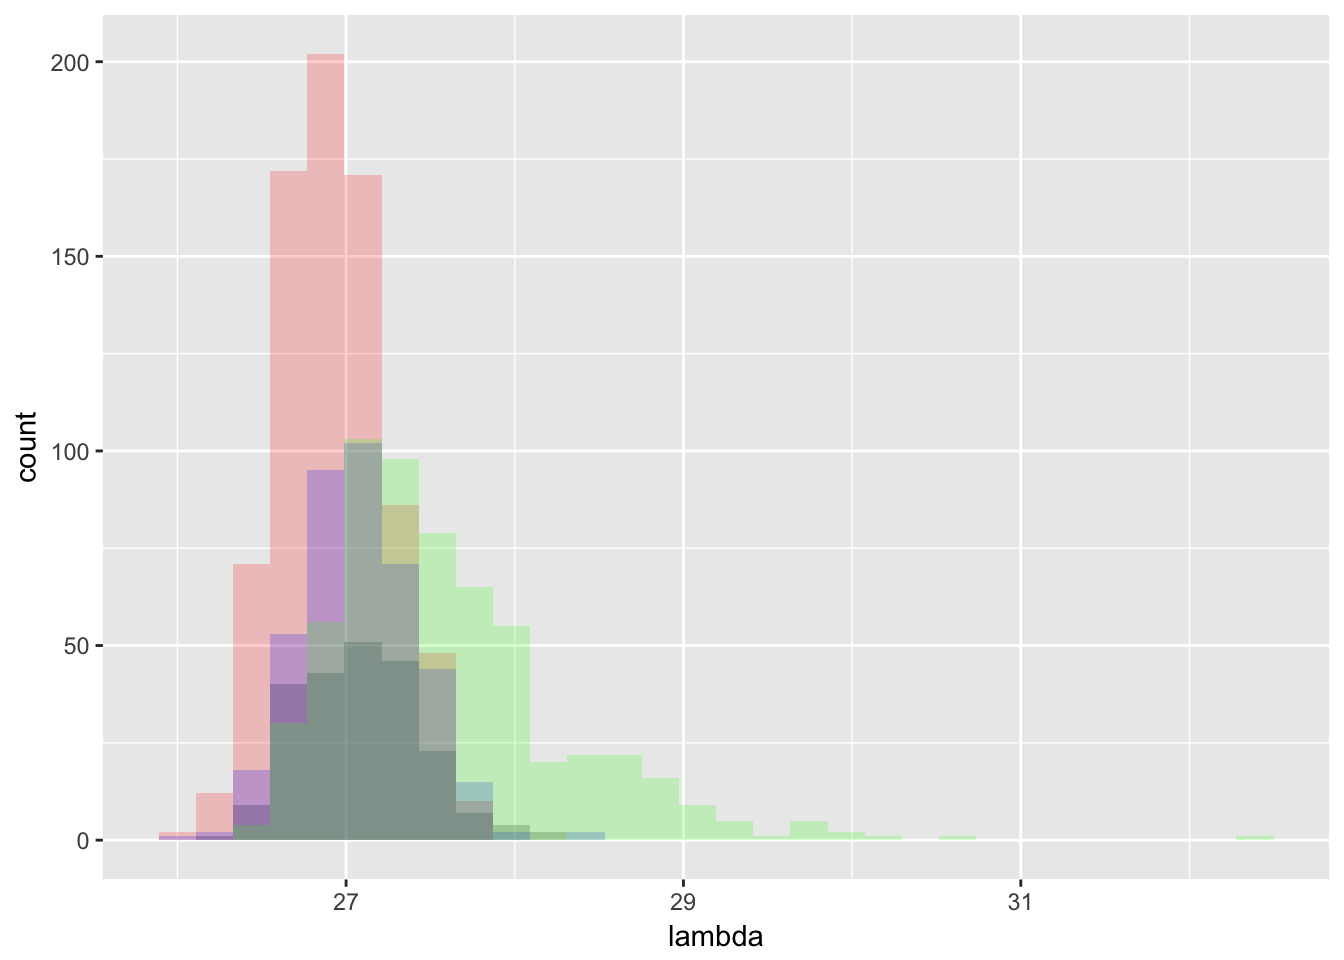
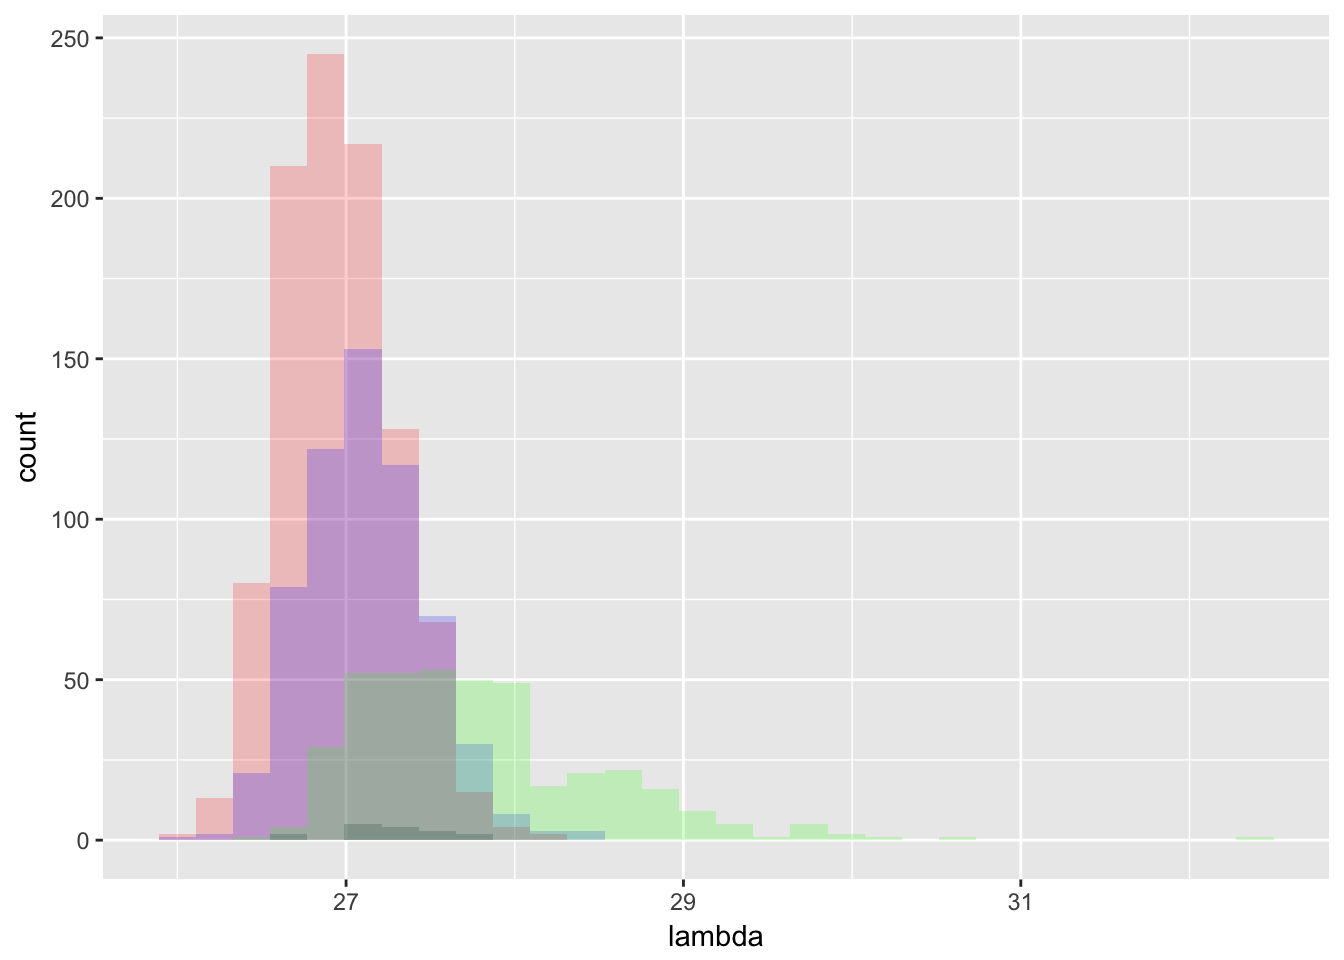
Build site.

diff --git a/docs/nullcheck2.html b/docs/nullcheck2.html
@@ -9,10 +9,10 @@
 <meta name="generator" content="pandoc" />
 
 
-<meta name="author" content="wei" />
+<meta name="author" content="Wei Wang" />
 
 
-<title>null check for flashr2</title>
+<title>NUll check for flashr2</title>
 
 <script src="site_libs/jquery-1.11.3/jquery.min.js"></script>
 <meta name="viewport" content="width=device-width, initial-scale=1" />
@@ -301,9 +301,9 @@ div.tocify {
 
 
 
-<h1 class="title toc-ignore">null check for flashr2</h1>
-<h4 class="author"><em>wei</em></h4>
-<h4 class="date"><em>09-16</em></h4>
+<h1 class="title toc-ignore">NUll check for flashr2</h1>
+<h4 class="author"><em>Wei Wang</em></h4>
+<h4 class="date"><em>09-17</em></h4>
 
 </div>
 
@@ -350,9 +350,9 @@ for(t in 1:T){
   P = 300
   N = 100
   Sigma_0 = diag(rep(1,P))
-  nu = rnorm(P, 0, (6)/(sqrt(P)))
-  index_nu = sample(seq(1:P),(P*0.95))
-  nu[index_nu] = 0
+  nu = rnorm(P, 0, (1)/(sqrt(P)))
+  # index_nu = sample(seq(1:P),(P*0.95))
+  # nu[index_nu] = 0
   Sigma_1 = Sigma_0 + nu %*% t(nu)
   X = mvrnorm(n = N,mu = rep(0,P), Sigma = Sigma_1)
   lambda_1[t] =  svd(X)$d[1]
@@ -385,7 +385,7 @@ ggplot(dat,aes(x=lambda)) +
   geom_histogram(data=subset(dat,name == &#39;alt&#39;),fill = &quot;green&quot;, alpha = 0.2) </code></pre>
 <pre><code>`stat_bin()` using `bins = 30`. Pick better value with `binwidth`.
 `stat_bin()` using `bins = 30`. Pick better value with `binwidth`.</code></pre>
-<p><img src="figure/NULLcheck.Rmd/unnamed-chunk-3-1.png" width="672" style="display: block; margin: auto;" /></p>
+<p><img src="figure/nullcheck2.Rmd/unnamed-chunk-3-1.png" width="672" style="display: block; margin: auto;" /></p>
 <ul>
 <li>red: null</li>
 <li>green: alternative</li>
@@ -407,7 +407,7 @@ ggplot(dat,aes(x=lambda)) +
 `stat_bin()` using `bins = 30`. Pick better value with `binwidth`.
 `stat_bin()` using `bins = 30`. Pick better value with `binwidth`.
 `stat_bin()` using `bins = 30`. Pick better value with `binwidth`.</code></pre>
-<p><img src="figure/NULLcheck.Rmd/unnamed-chunk-4-1.png" width="672" style="display: block; margin: auto;" /></p>
+<p><img src="figure/nullcheck2.Rmd/unnamed-chunk-4-1.png" width="672" style="display: block; margin: auto;" /></p>
 <ul>
 <li>red: null as rank 0</li>
 <li>black: null as rank 1</li>
@@ -432,7 +432,7 @@ ggplot(dat,aes(x=lambda)) +
 `stat_bin()` using `bins = 30`. Pick better value with `binwidth`.
 `stat_bin()` using `bins = 30`. Pick better value with `binwidth`.
 `stat_bin()` using `bins = 30`. Pick better value with `binwidth`.</code></pre>
-<p><img src="figure/NULLcheck.Rmd/unnamed-chunk-5-1.png" width="672" style="display: block; margin: auto;" /></p>
+<p><img src="figure/nullcheck2.Rmd/unnamed-chunk-5-1.png" width="672" style="display: block; margin: auto;" /></p>
 <ul>
 <li>red: null as rank 0</li>
 <li>black: null as rank 1</li>
